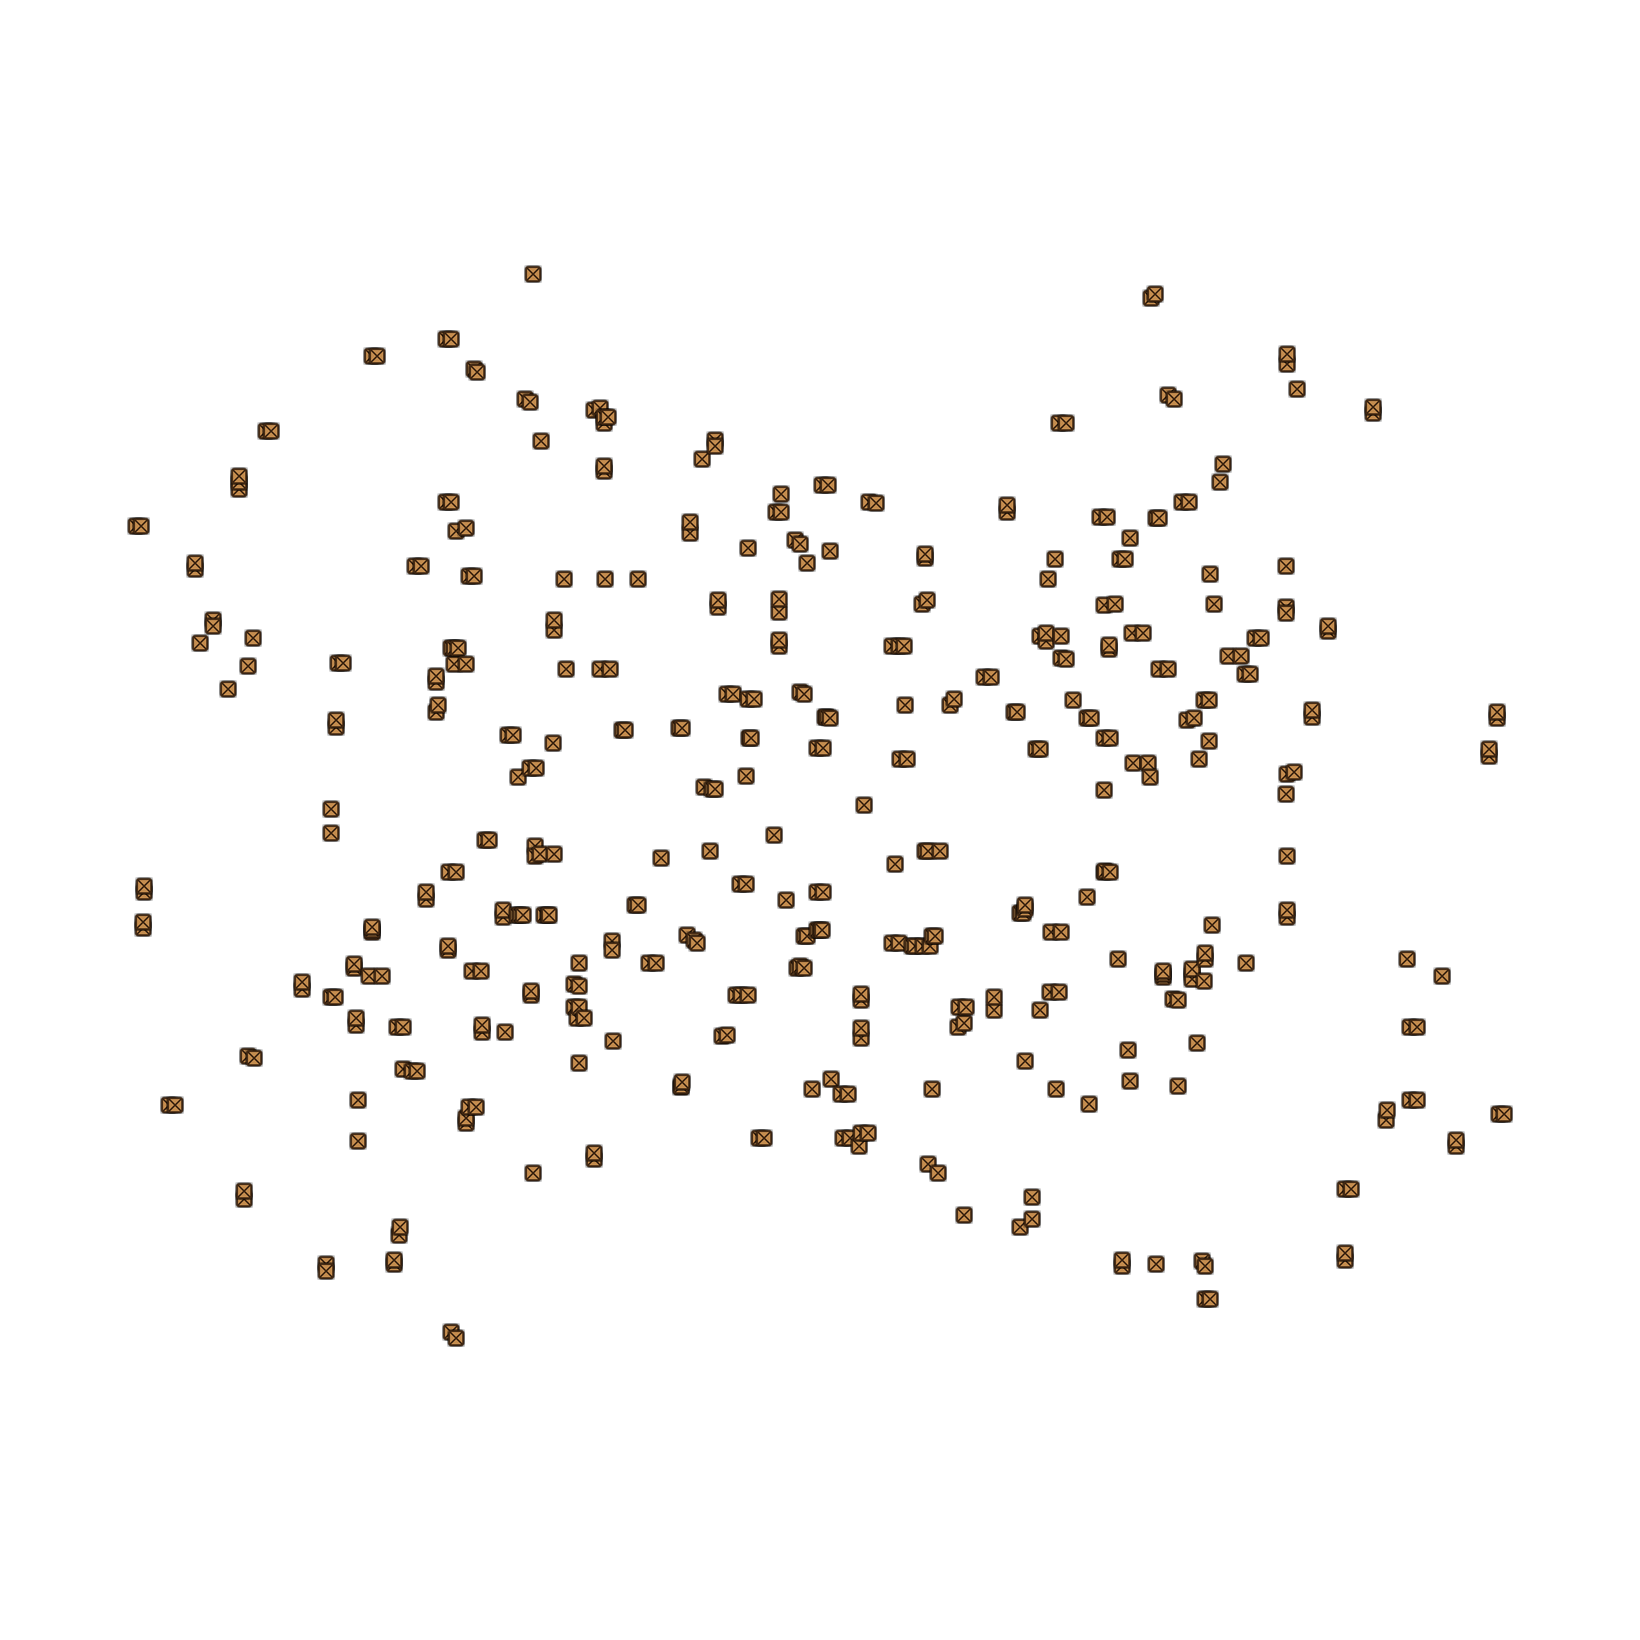
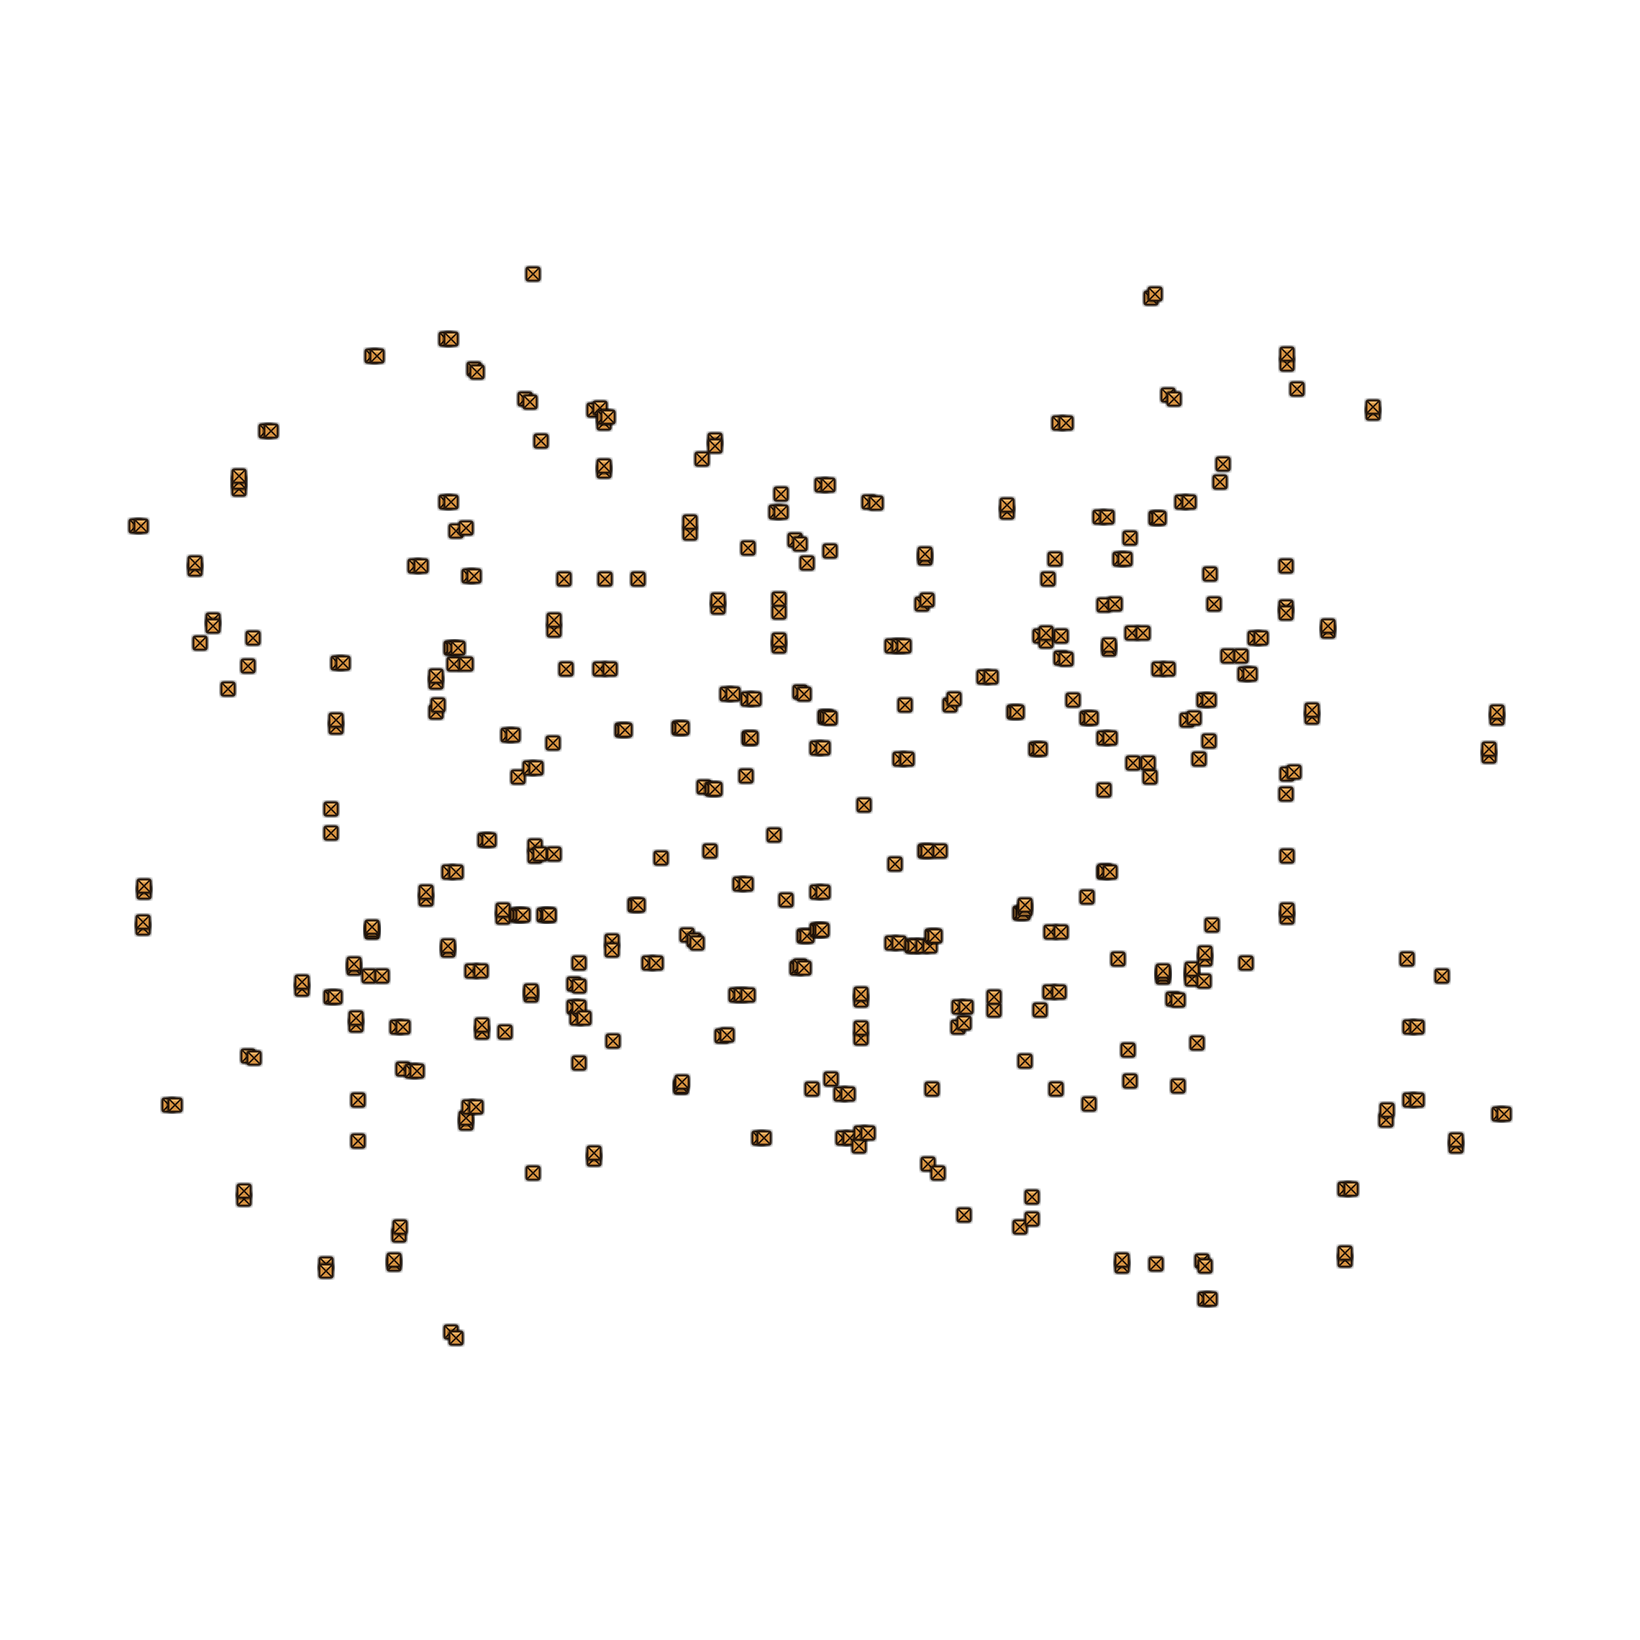
Значки ящиков и статуи для мини-карты: свои c/t/g 64+32 px (тёмный контур, яркая заливка), rl_mm_icons.py грузит их с фолбэком на рисование кодом, слои пересобраны

diff --git a/tools/rl_mm_icons.py b/tools/rl_mm_icons.py
@@ -2,12 +2,14 @@
 """Restless мод 0.22: слои мини-карты одной картинкой (вместо 670 панелей — 3 картинки, FPS).
 Позиции — BXD из mod/.../restless.js (deadlock-api /v1/assets/map, ×1000 от размера мини-карты).
 Выход: restless/mm/c.png (обычные ящики), t.png (крепкие), g.png (золотые статуи), 820×820 ×2.
-Значки нарисованы здесь (не из игры): ящик — доска с перекрестьем, крепкий — с железными уголками, статуя — золотой силуэт."""
+Значки — из restless/mm/icons/{c,t,g}.png (64×64, нарисованы Зеткой 04.11, свои); если файла нет —
+фолбэк на рисование кодом ниже (ящик — доска с перекрестьем, крепкий — с железными полосами, статуя — золотой силуэт)."""
 import re, os
 from PIL import Image, ImageDraw, ImageFilter
 ROOT = os.path.dirname(os.path.dirname(os.path.abspath(__file__)))
 JS = os.path.join(ROOT, 'mod/restless-probe/panorama/scripts/restless.js')
 OUT = os.path.join(ROOT, 'restless/mm')
+ICONS = os.path.join(OUT, 'icons')
 S = 2            # картинка ×2 к слою 820 px — чётче
 W = 820 * S
 SS = 4           # сглаживание значка
@@ -40,6 +42,14 @@ def glow(icon):
     sh = Image.new('RGBA', icon.size, (0, 0, 0, 0)); sh.putalpha(a.point(lambda v: min(255, int(v * 1.2))))
     out = Image.new('RGBA', icon.size, (0, 0, 0, 0)); out.alpha_composite(sh); out.alpha_composite(icon); return out
 
+def png_icon(k):
+    """Значок Зетки из restless/mm/icons/ (64 или 32), None — если файлов нет."""
+    for name in (k + '.png', k + '-32.png'):
+        p = os.path.join(ICONS, name)
+        if os.path.exists(p):
+            return Image.open(p).convert('RGBA')
+    return None
+
 def main():
     s = open(JS, encoding='utf-8').read()
     m = re.search(r"var BXD = \{ c: '([^']*)', t: '([^']*)', g: '([^']*)'", s)
@@ -48,7 +58,8 @@ def main():
     spec = {'c': (9, lambda z: crate(z)), 't': (13, lambda z: crate(z, True)), 'g': (13, statue)}
     for k, (z, fn) in spec.items():
         zz = z * S
-        ic = glow(fn(zz)).resize((zz, zz), Image.LANCZOS)
+        src = png_icon(k)                     # свои PNG — приоритет
+        ic = glow(src if src is not None else fn(zz)).resize((zz, zz), Image.LANCZOS)
         im = Image.new('RGBA', (W, W), (0, 0, 0, 0)); n = 0
         for p in data[k].split(';'):
             a = p.split(',')

diff --git a/ОТЧЁТ-ZAI-box-icons.md b/ОТЧЁТ-ZAI-box-icons.md
@@ -1,0 +1,22 @@
+# ОТЧЁТ: значки ящиков и статуи (04.11-ночь, задание 1, Зетка)
+
+## Сделано
+- 6 PNG в `restless/mm/icons/`: `c/t/g.png` 64×64 + `c/t/g-32.png` 32×32, прозрачный фон, RGBA.
+- Нарисованы с нуля скриптом `scripts/box-icons.py` (суперсэмплинг ×4) — чужих картинок нет, источник: свой код.
+  - `c` обычный ящик — яркий янтарный, тёмный контур, тёмный раскос X, светлая верхняя доска;
+  - `t` крепкий — тёмное дерево, две горизонтальные железные полосы с заклёпками, стальные уголки;
+  - `g` статуя — золотой бюст на постаменте, звёздочка-блик, тёмно-бронзовый контур.
+- `tools/rl_mm_icons.py`: добавлена `png_icon()` — сначала грузит `restless/mm/icons/{c,t,g}.png`
+  (потом `-32`), если файлов нет — старое рисование кодом (`crate()`/`statue()` оставлены как фолбэк).
+  Тень/свечение — прежний `glow()` при сборке слоёв (в самих PNG тени не запечены, чтобы не было двойной).
+- Слои пересобраны: `restless/mm/c.png` (423 значка), `t.png` (78), `g.png` (168) + превью `*-icon.png`.
+
+## Проверка
+- Лист на тёмном фоне (#141B24) в 64 / 32 / 14 / 13 / 9 px: все три различимы по силуэту и цвету,
+  контур держится, значок не сливается (c — янтарь+X, t — сталь+уголки, g — золото+бюст).
+- Кроп слоя `t.png` с реальными позициями на тёмной подложке — значки видны.
+- Формально: размеры 64/32, RGBA, углы прозрачные.
+
+## Откуда рисовалось
+Стиль — плоские метки мини-карты Deadlock (тёмный контур, яркая заливка, лёгкая тень).
+Чужих изображений не использовано; из файлов игры ничего не копировалось.
